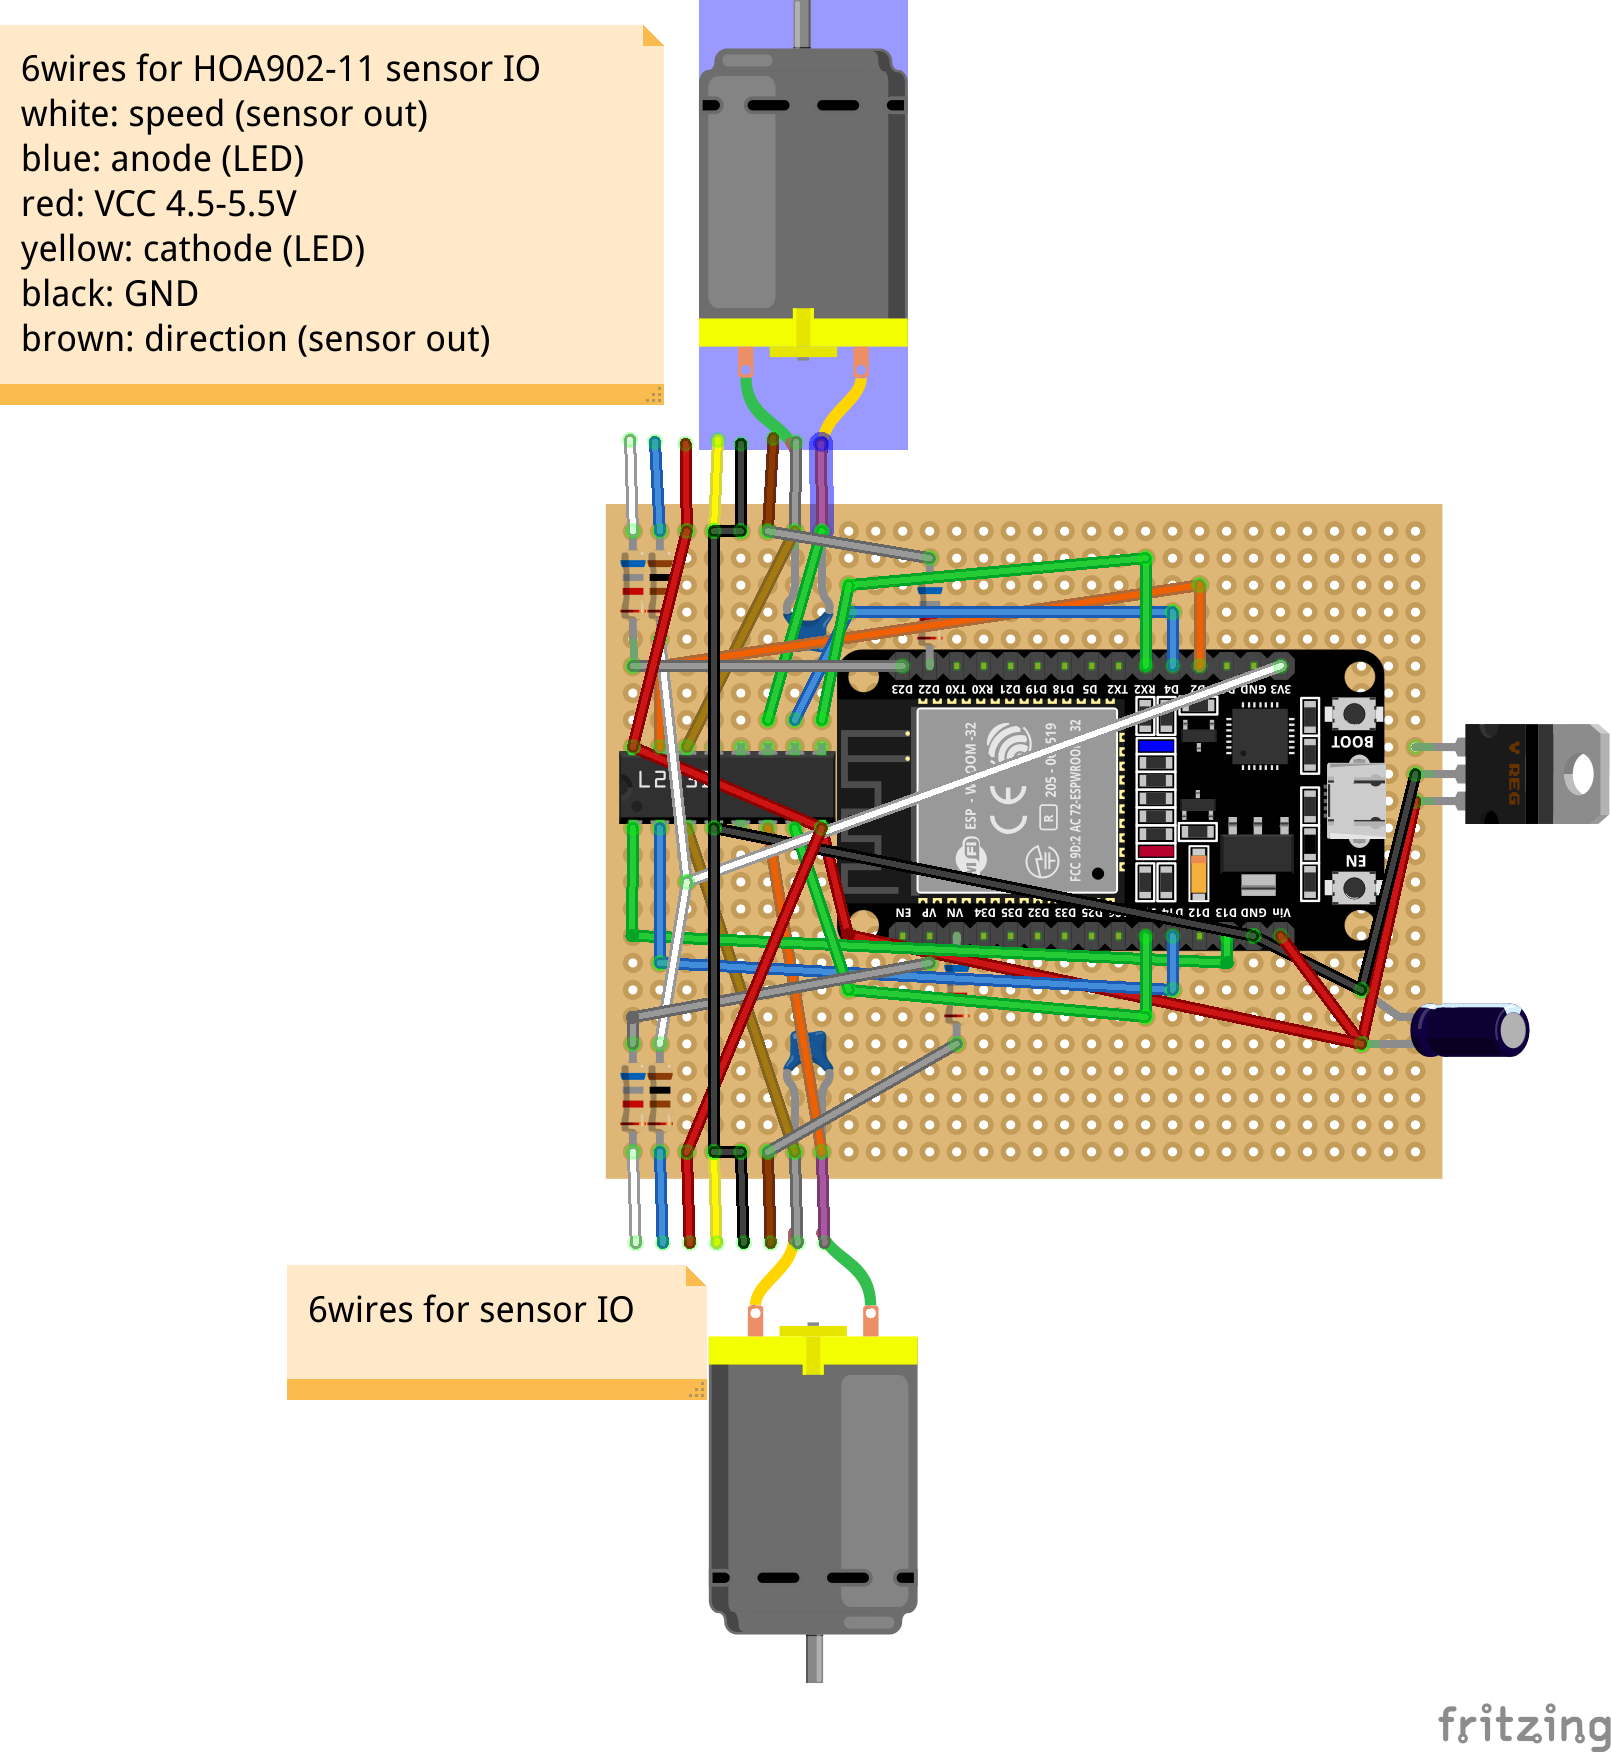
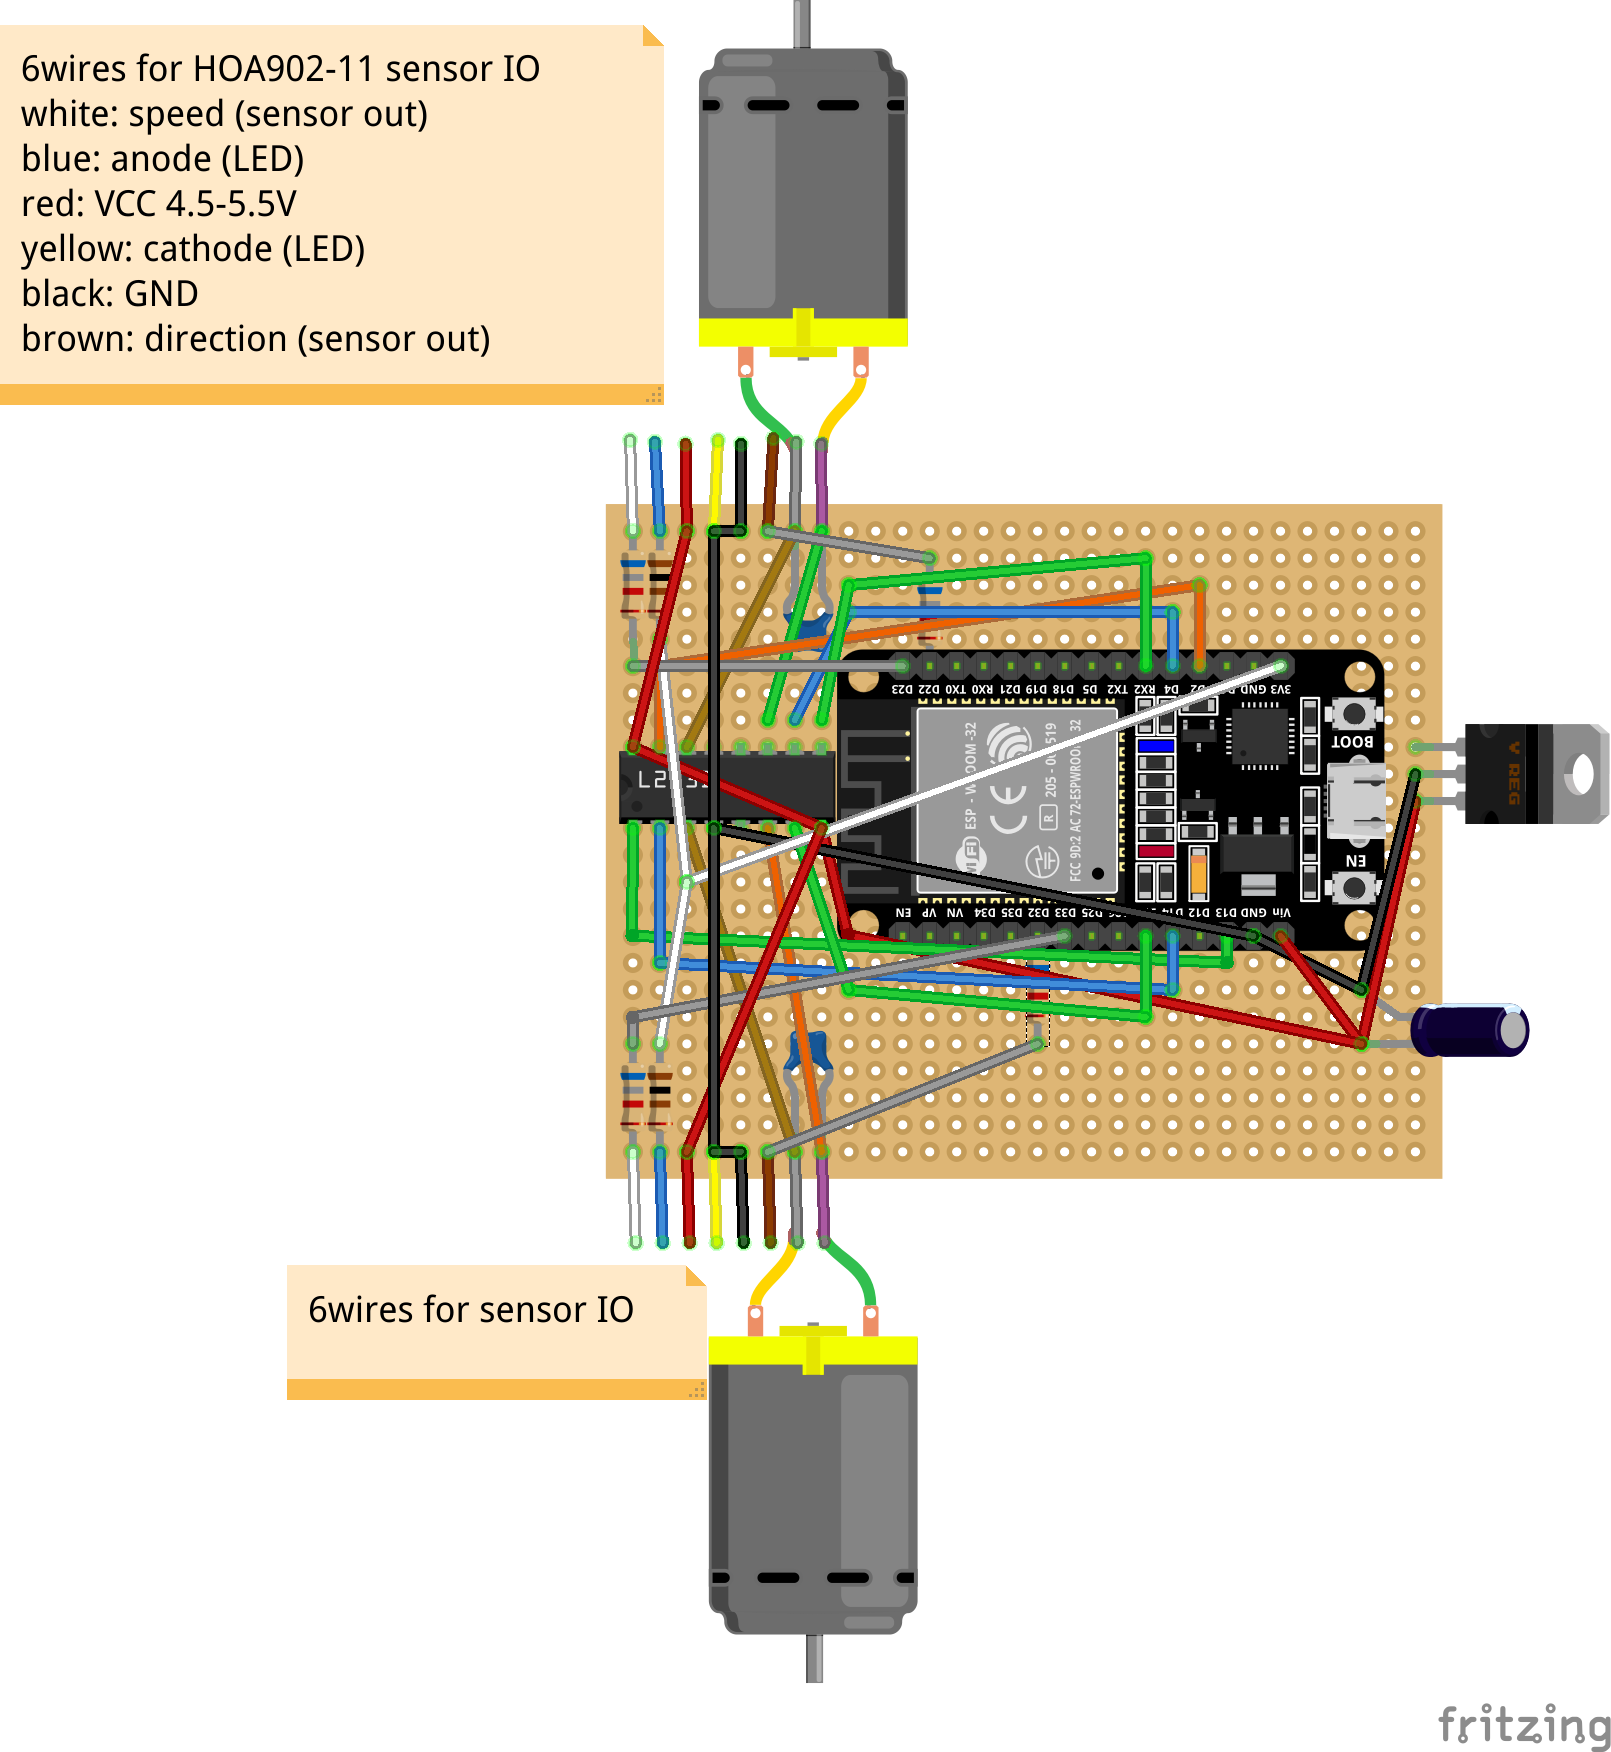
Fix random rotation signal
The pins 36 39 were not pulled down, making random signals.  From:

https://forum.arduino.cc/t/esp32-analog-read-pin-33-affects-interrupt-on-pin-36/1135342/9
```
GPIOs 34 to 39 are GPIs – input only pins. These pins don’t have internal pull-up or pull-down resistors.
```

diff --git a/esp32/main/dokidoki.c b/esp32/main/dokidoki.c
@@ -111,8 +111,8 @@ struct direction HORIZONTAL = {
 	.in_a = GPIO_NUM_27,
 	.in_b = GPIO_NUM_14,
 	.en = GPIO_NUM_13,
-	.rotory_sensor = GPIO_NUM_36,
-	.direction_sensor = GPIO_NUM_39,
+	.rotory_sensor = GPIO_NUM_33,
+	.direction_sensor = GPIO_NUM_32,
 	.ch = LEDC_CHANNEL_1,
 	.increase_quanta_direction = -1,
 };
